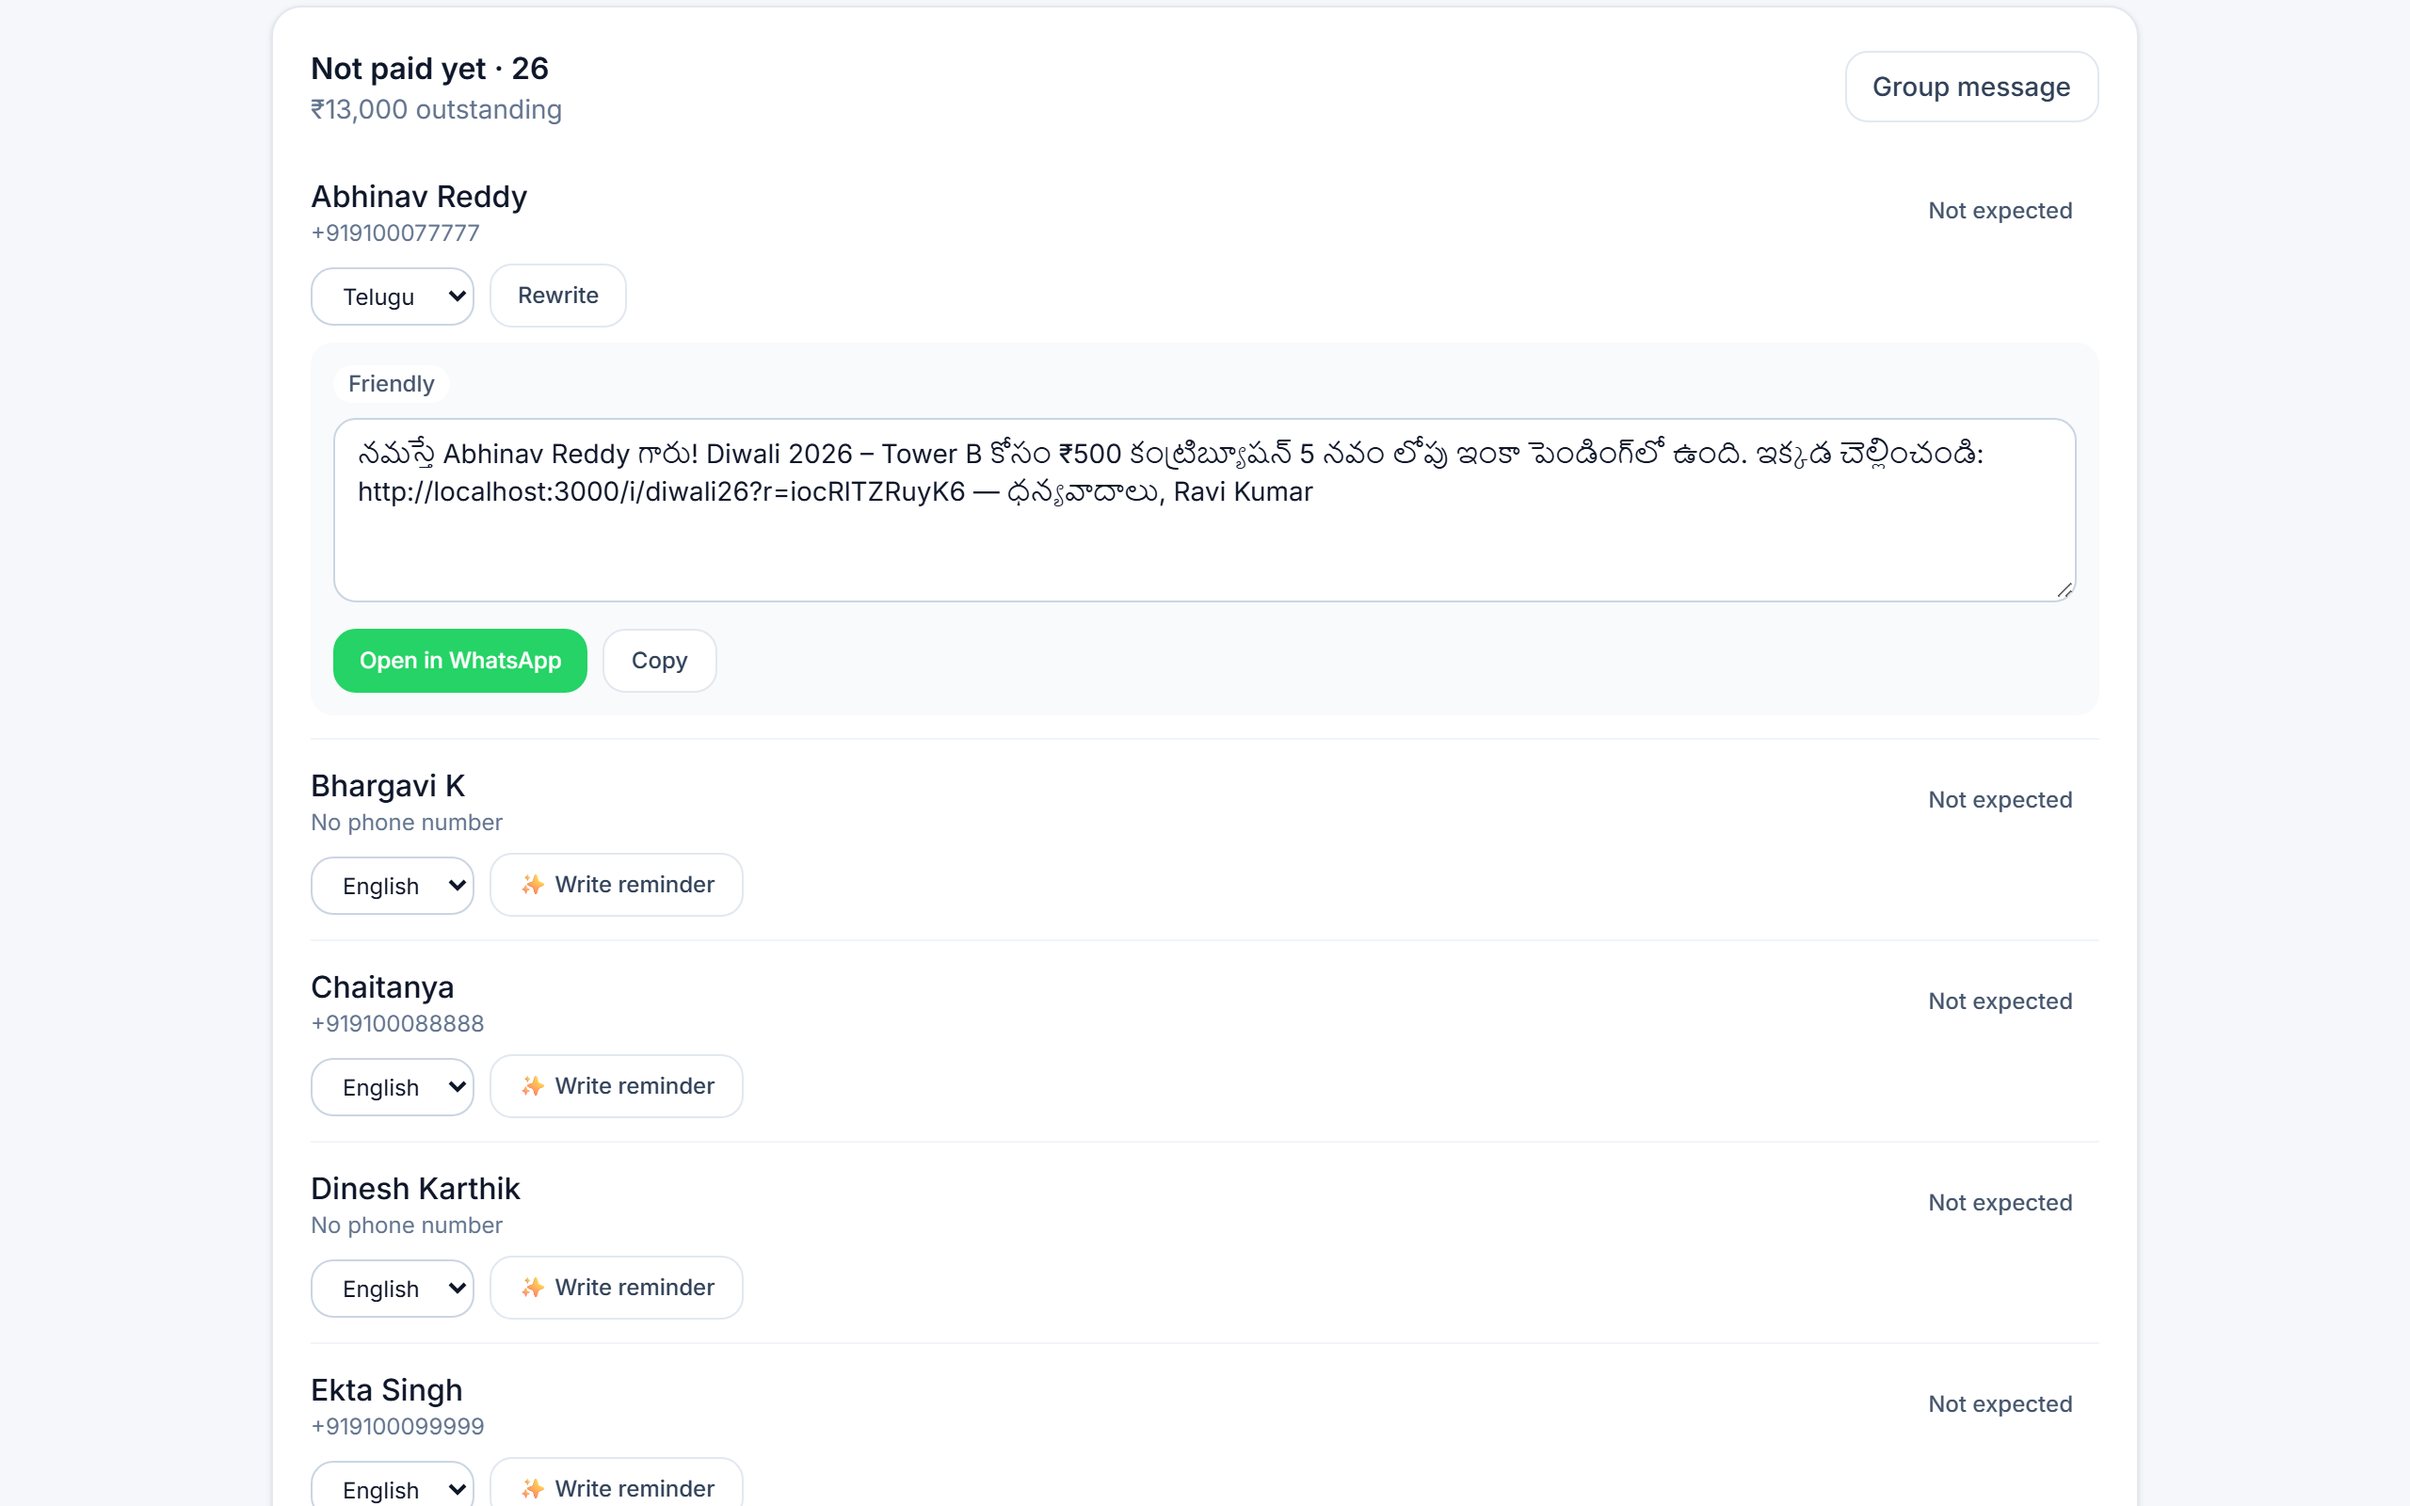
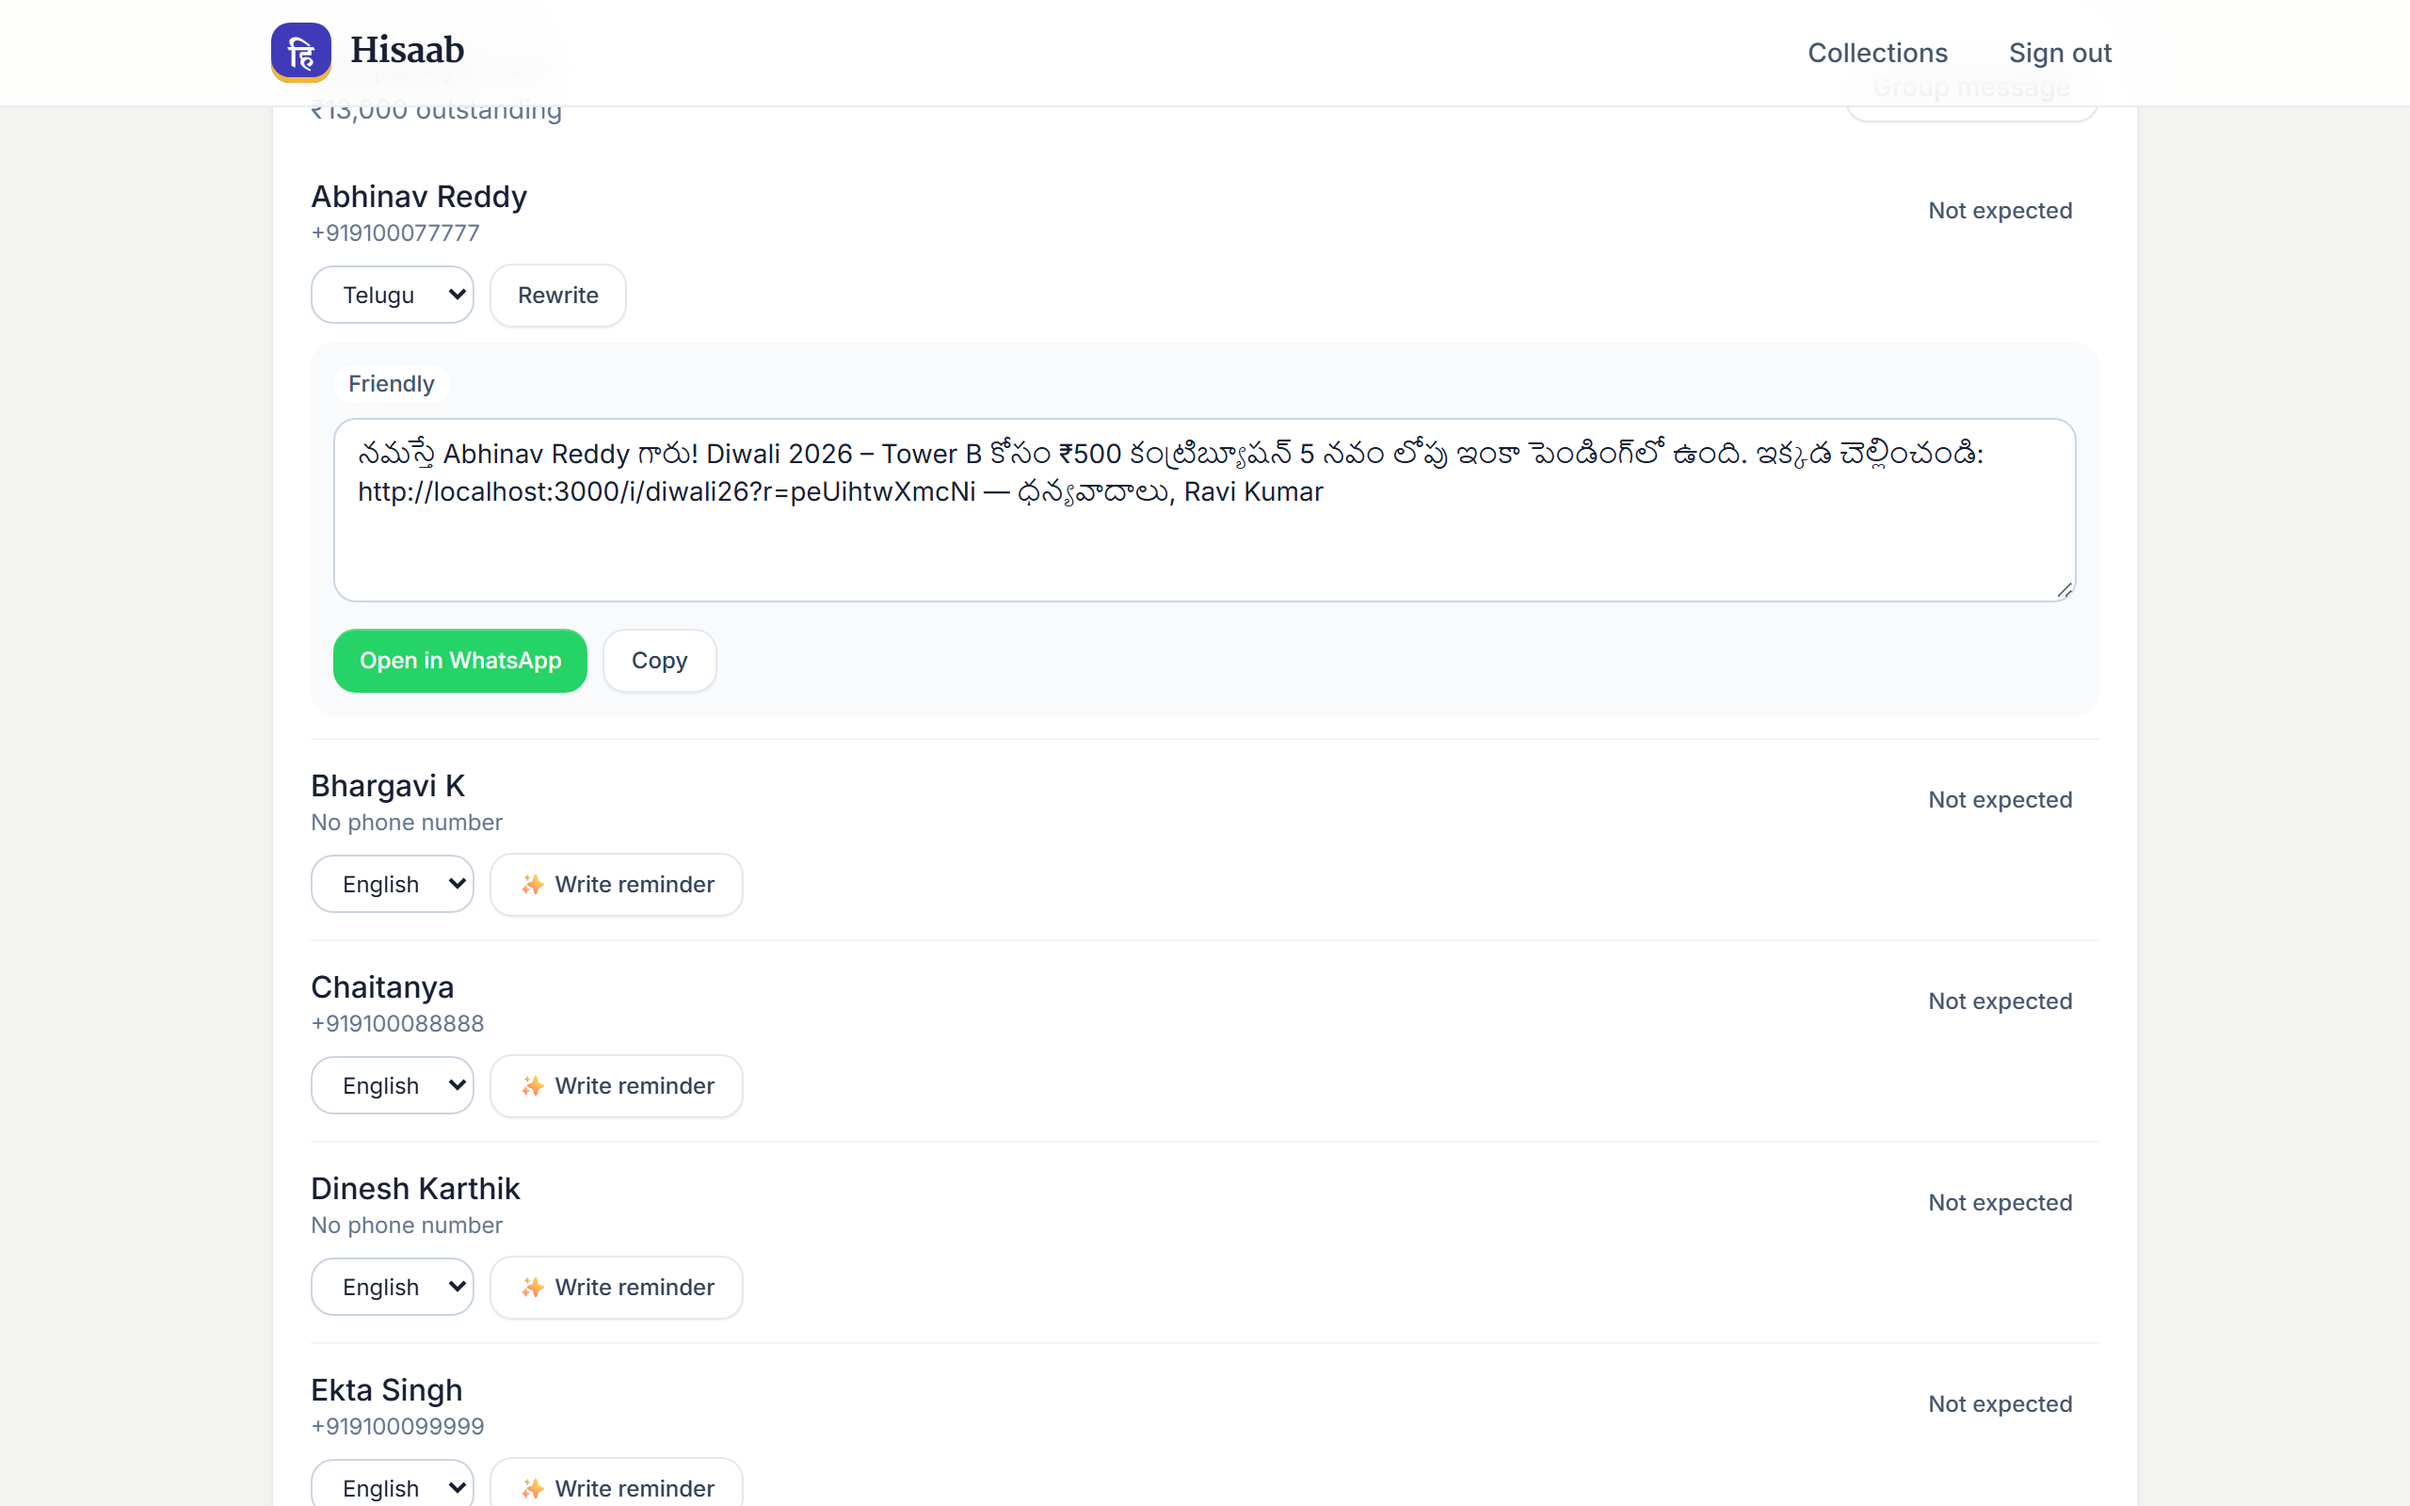
Retake every screenshot in the new look, all from the capture script
Screenshots 00-15 predated the redesign. The capture script now also
takes the contributor status, receipt, event details, assistant and fund
shots (11-16), which used to come from a one-off script, so the whole
set can be retaken with one command. Tabs are opened by URL, since a
click during a pending tab transition could be lost.

diff --git a/scripts/capture.ts b/scripts/capture.ts
@@ -10,8 +10,13 @@ import { execFileSync } from "node:child_process";
 import { mkdirSync, rmSync } from "node:fs";
 import path from "node:path";
 import { chromium, devices, type BrowserContext, type FrameLocator, type Locator, type Page } from "@playwright/test";
+import { PrismaClient } from "@prisma/client";
 import sharp from "sharp";
 import { renderReceipt } from "../eval/lib/renderReceipt";
+import { paymentCookieName, signContributionId } from "../src/lib/contributionToken";
+
+// Only used to look up seeded contributions for the contributor screenshots.
+const prisma = new PrismaClient();
 
 const BASE = process.env.APP_URL ?? "http://localhost:3000";
 const ROOT = path.resolve(__dirname, "..");
@@ -58,6 +63,14 @@ async function loginAndOpenEvent(page: Page) {
 
 const tab = (page: Page, name: RegExp | string) =>
   page.getByRole("navigation", { name: "Sections" }).getByRole("link", { name, exact: typeof name === "string" });
+
+// Opens a tab by its URL. The tabs switch with a client-side transition, and a
+// click that lands while one is still pending can be lost; a plain load can't.
+async function openTab(page: Page, id: string) {
+  const url = new URL(page.url());
+  url.searchParams.set("tab", id);
+  await page.goto(url.toString());
+}
 
 // First person on the "Not paid yet" list, pinned by name (the button text changes once a draft exists).
 async function reminderRow(page: Page) {
@@ -107,7 +120,7 @@ async function shots() {
   };
   const cardOf = (heading: Locator) => heading.locator("xpath=ancestor::section[1]");
 
-  await tab(page, /hasn't paid/).click();
+  await openTab(page, "roster");
   await page.getByRole("heading", { name: /Not paid yet/ }).waitFor();
   await shotAt("02-who-hasnt-paid", page.getByRole("heading", { name: /Not paid yet/ }), 140);
   await page.waitForLoadState("networkidle");
@@ -120,16 +133,16 @@ async function shots() {
   await person.getByLabel("Reminder message").waitFor();
   await shotAt("04-reminder", page.getByRole("heading", { name: /Not paid yet/ }), 24);
 
-  await tab(page, /Payments/).click();
+  await openTab(page, "review");
   await page.getByRole("heading", { name: /Review queue/ }).waitFor();
   await shotAt("05-review-queue", page.getByRole("heading", { name: /Review queue/ }), 24);
 
-  await tab(page, /Expenses/).click();
+  await openTab(page, "expenses");
   await page.getByRole("heading", { name: "Expenses", exact: true }).waitFor();
   await shot("06-expenses");
   await shotAt("07-bill-flagged", page.getByRole("heading", { name: /Worth a look/ }), 24);
 
-  await tab(page, "Close").click();
+  await openTab(page, "close");
   await page.getByRole("heading", { name: "Balance per person" }).waitFor();
   await shot("08-close-and-settle");
 
@@ -149,7 +162,79 @@ async function shots() {
   await mobile.locator("#ledger").evaluate((el) => window.scrollTo(0, el.getBoundingClientRect().top + window.scrollY - 12));
   await mshot("10-contributor-ledger");
 
+  // The invite link once a payment is registered: the page reads a signed cookie,
+  // so set the one a seeded contributor would have.
+  const seeded = async (name: string) => {
+    const c = await prisma.contribution.findFirstOrThrow({ where: { name, event: { inviteCode: "diwali26" } } });
+    return signContributionId(c.id);
+  };
+  // A fresh phone per contributor, so one person's cookie never leaks into the next shot.
+  const asContributor = async (name: string) => {
+    const ctx = await browser.newContext({ ...devices["iPhone 13"], deviceScaleFactor: 2 });
+    await ctx.addInitScript(HIDE_DEV_BADGE);
+    await ctx.addCookies([{ name: paymentCookieName("diwali26"), value: await seeded(name), url: BASE }]);
+    const p = await ctx.newPage();
+    await p.goto(INVITE);
+    return p;
+  };
+  const pshot = async (p: Page, name: string, fullPage = false) => {
+    await p.waitForLoadState("networkidle");
+    await imagesLoaded(p);
+    await sleep(400);
+    await p.screenshot({ path: path.join(SHOTS, `${name}.png`), fullPage });
+    console.log(`  ${name}.png`);
+  };
+  const rahul = await asContributor("Rahul Verma");
+  await rahul.getByText(/organizer will confirm/).waitFor();
+  await pshot(rahul, "11-contributor-waiting");
+  const sita = await asContributor("Sita Reddy");
+  const verified = sita.getByText("Payment verified. Thank you!");
+  await verified.waitFor();
+  await verified.evaluate((el) => window.scrollTo(0, (el.closest("section") ?? el).getBoundingClientRect().top + window.scrollY - 12));
+  await pshot(sita, "12-contributor-confirmed");
+  await sita.goto(`${BASE}/r/${await seeded("Sita Reddy")}`);
+  await pshot(sita, "14-receipt", true);
+
+  // Back to the organizer: event details on the Overview, then the assistant.
+  await openTab(page, "overview");
+  const details = page.getByRole("heading", { name: "Event details" });
+  await details.waitFor();
+  await page.waitForLoadState("networkidle");
+  await cardOf(details).screenshot({ path: path.join(SHOTS, "13-event-details.png") });
+  console.log("  13-event-details.png");
+
+  await openTab(page, "ask");
+  const ask = page.getByLabel("Ask a question");
+  for (const [q, answer] of [
+    ["Which payments need my review?", /waiting for review/],
+    ["why was Esha flagged?", /failed \d+ check/],
+    ["how much did we spend on food?", /spent on Food/],
+  ] as const) {
+    await ask.fill(q);
+    await page.getByRole("button", { name: "Ask", exact: true }).click();
+    await page.getByText(answer).waitFor({ timeout: 30_000 });
+  }
+  await sleep(800);
+  // The conversation scrolls inside the card; let it grow so all three answers show.
+  await page.locator('[aria-live="polite"]').evaluate((el) => {
+    el.style.maxHeight = "none";
+    el.style.overflow = "visible";
+  });
+  // The card is now taller than the window; unstick the header so it doesn't cover the top.
+  await page.locator("header").first().evaluate((el) => (el.style.position = "static"));
+  await cardOf(page.getByRole("heading", { name: "Ask about this collection" })).screenshot({ path: path.join(SHOTS, "15-assistant.png") });
+  console.log("  15-assistant.png");
+
+  // The monthly fund page.
+  await page.setViewportSize({ width: 1024, height: H });
+  await page.goto(`${BASE}/events`);
+  await page.getByRole("link", { name: /Sai Nagar Ganesh Fund/ }).first().click();
+  await page.waitForURL("**/funds/**");
+  await page.getByRole("heading", { name: "Month by month" }).waitFor();
+  await shot("16-fund", true);
+
   await browser.close();
+  await prisma.$disconnect();
 }
 
 // ---------------------------------------------------------------- video
